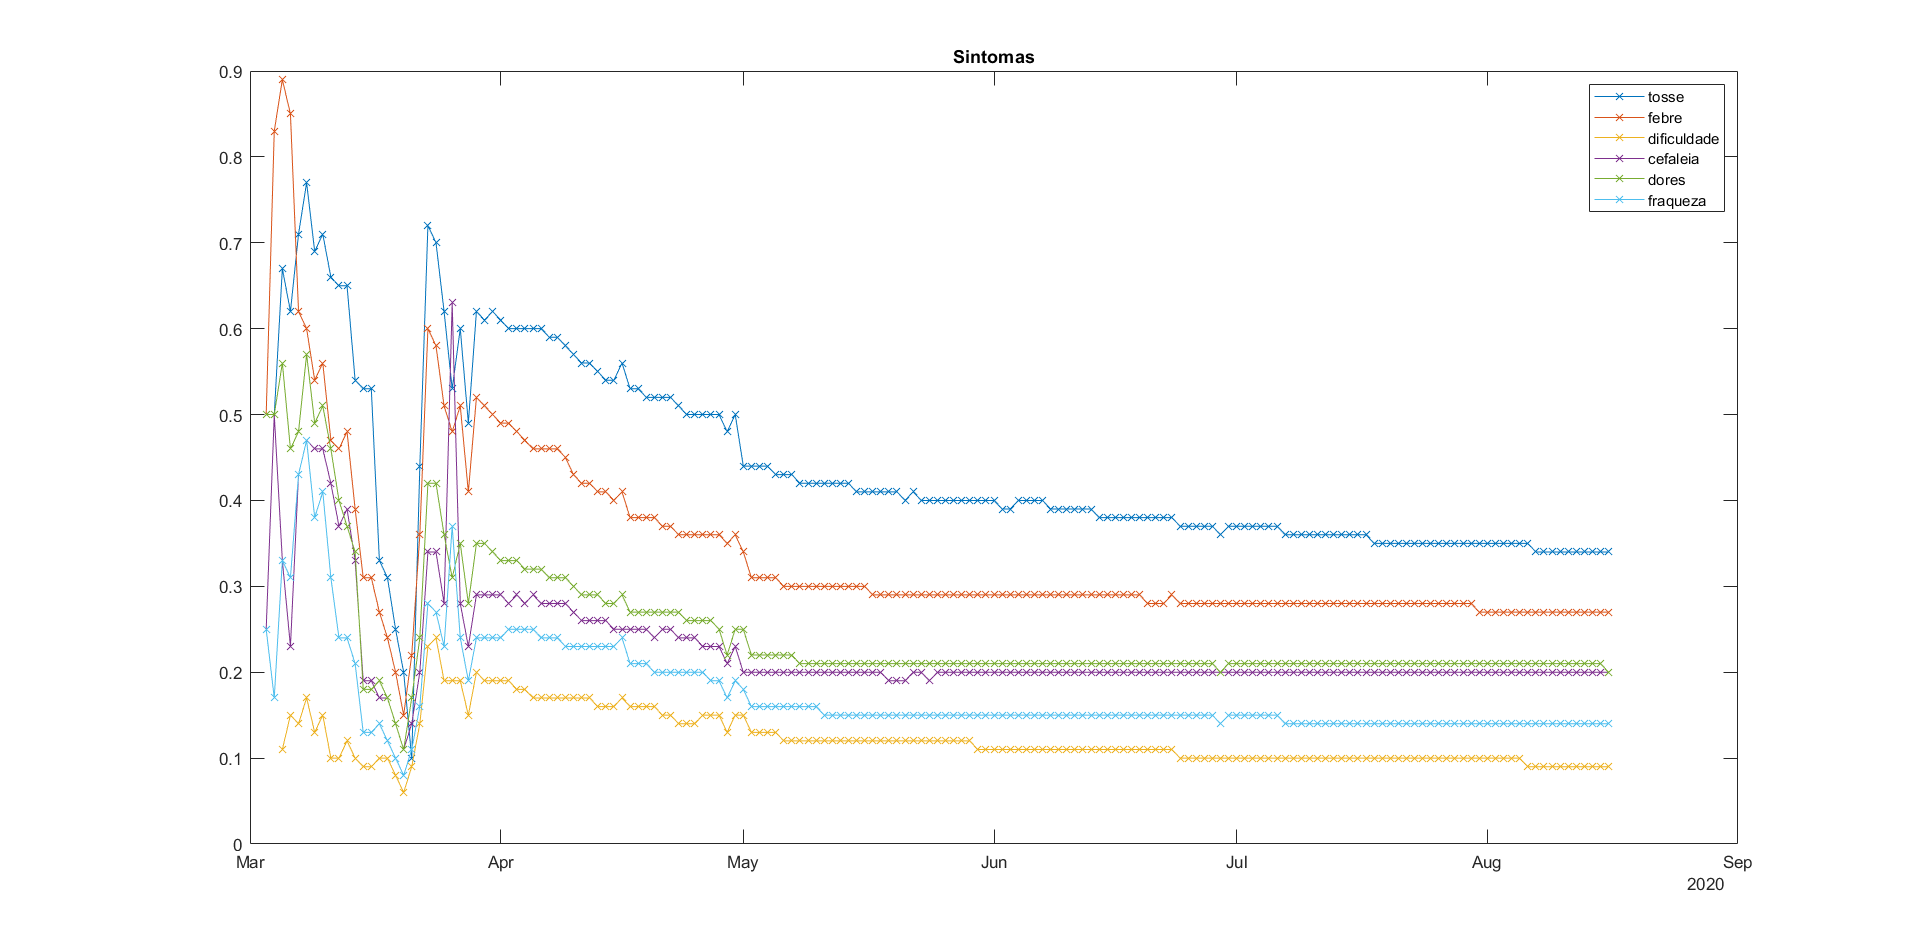
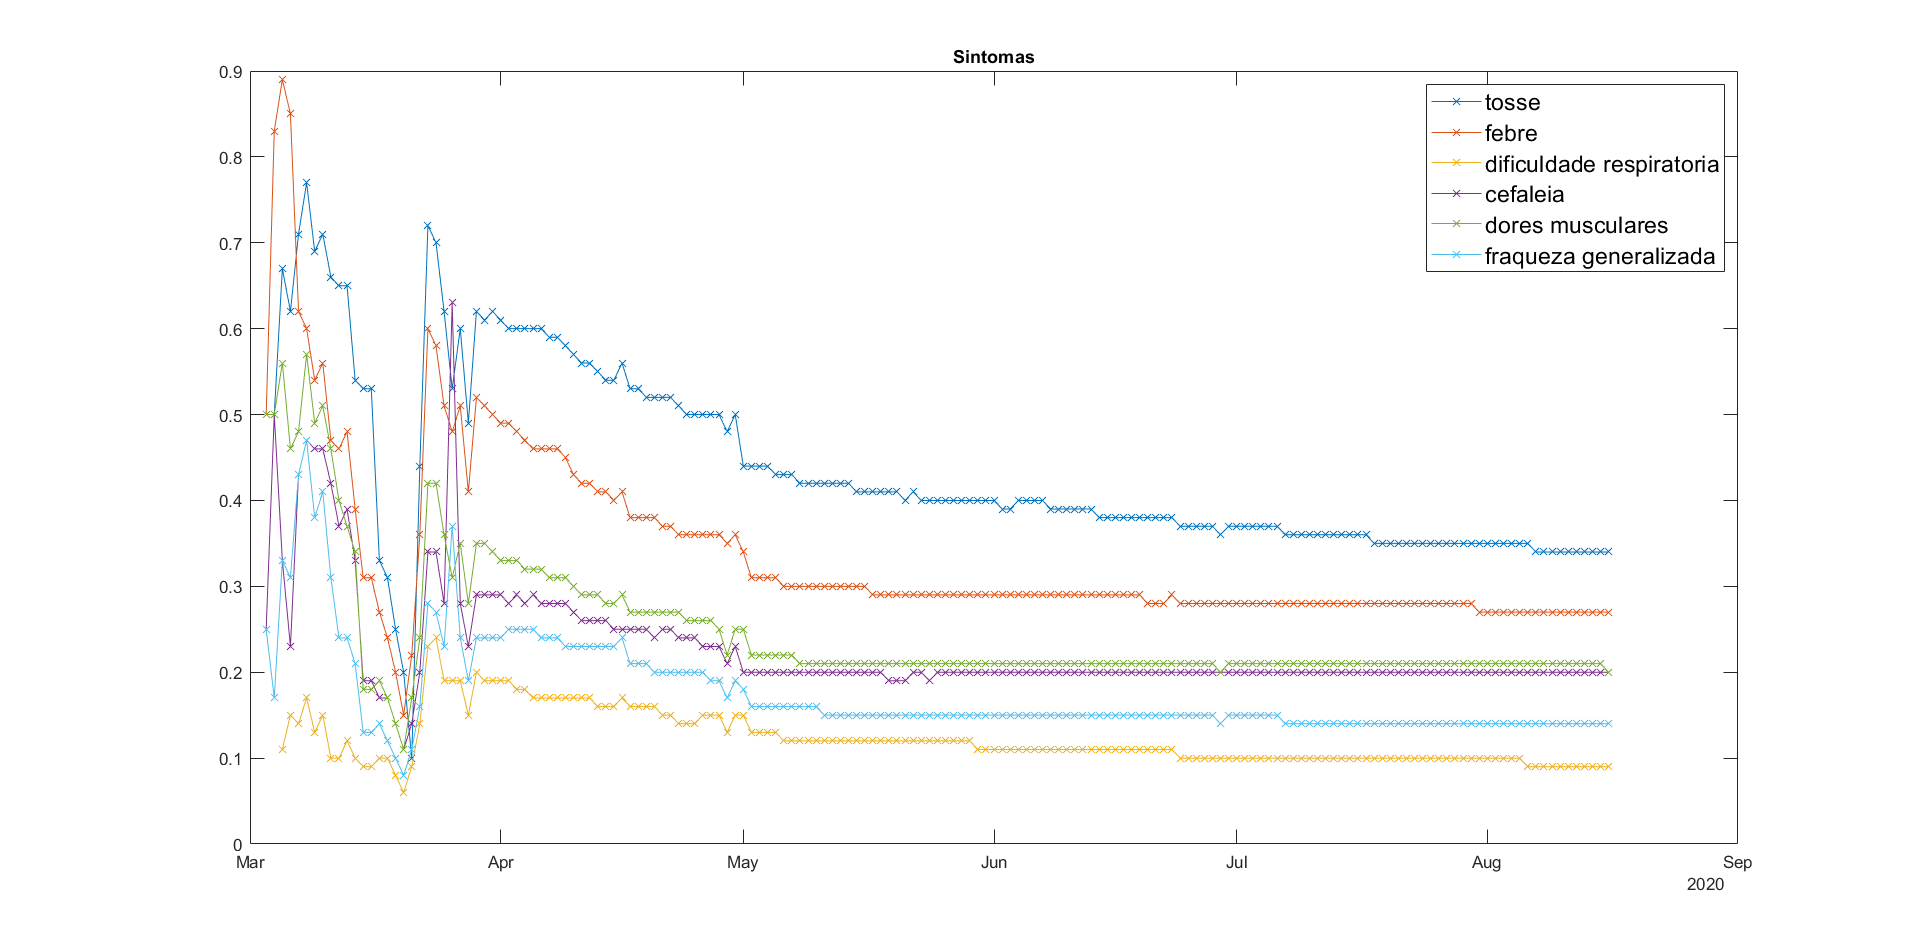
Update Images, label size

Changed region(s): [[0.75, 0.0918, 0.9062, 0.3059]]

diff --git a/matlabFuncs/SintomasPlots.m b/matlabFuncs/SintomasPlots.m
@@ -7,8 +7,8 @@ labels = [];
 for i = 1:width(Table)
     if ~strcmp(columns{i}, 'data') & contains(columns{i}, 'sintomas')
         
-        label = split(columns{i},'_');
-        label = string(label{2});
+        label = string(strrep(strrep(columns{i}, 'sintomas_', ''), '_', ' '))
+        
         
         subplot(1,1,1);
         plot(Table.('data'), Table.(columns{i}), 'x-');
@@ -21,6 +21,7 @@ end
 
 subplot(1,1,1);
 title('Sintomas');
-legend(labels');
+lgd = legend(labels');
+lgd.FontSize = 14;
 
 end

diff --git a/matlabFuncs/RegionPlots.m b/matlabFuncs/RegionPlots.m
@@ -31,22 +31,26 @@ for i = 1:width(Table)
 end
 subplot(2,2,1);
 title(title1)
-legend(labels')
+lgd = legend(labels');
+lgd.FontSize = 14;
 hold on;
 
 subplot(2,2,2);
 title(title2);
-legend(labels');
+lgd = legend(labels');
+lgd.FontSize = 14;
 hold on;
 
 subplot(2,2,3);
 title(title3);
-legend(labels');
+lgd = legend(labels');
+lgd.FontSize = 14;
 hold on;
 
 subplot(2,2,4);
 title(title4);
-legend(labels');
+lgd = legend(labels');
+lgd.FontSize = 14;
 hold on;
 
 

diff --git a/matlabFuncs/SexPlots.m b/matlabFuncs/SexPlots.m
@@ -32,15 +32,18 @@ for i = 1:width(Table)
     end
 end
 subplot(2,2,1)
-legend(labels)
+lgd = legend(labels);
+lgd.FontSize = 14;
 title('Relative')
 
 subplot(2,2,2)
-legend(labels)
+lgd = legend(labels);
+lgd.FontSize = 14;
 title('Nominal')
 
 subplot(2,1,2)
-legend(labels)
+lgd = legend(labels);
+lgd.FontSize = 14;
 title(title3)
 
 suptitle('Sex Plots')

diff --git a/matlabFuncs/AgePlots.m b/matlabFuncs/AgePlots.m
@@ -60,15 +60,18 @@ for i = 1:width(Table)
     end
 end
 subplot(2,2,1)
-legend(labels)
+lgd = legend(labels);
+lgd.FontSize = 14;
 title('Relative')
 
 subplot(2,2,2)
-legend(labels)
+lgd = legend(labels);
+lgd.FontSize = 14;
 title(title2)
 
 subplot(2,1,2)
-legend(labels)
+lgd = legend(labels);
+lgd.FontSize = 14;
 title(title3)
 
 
